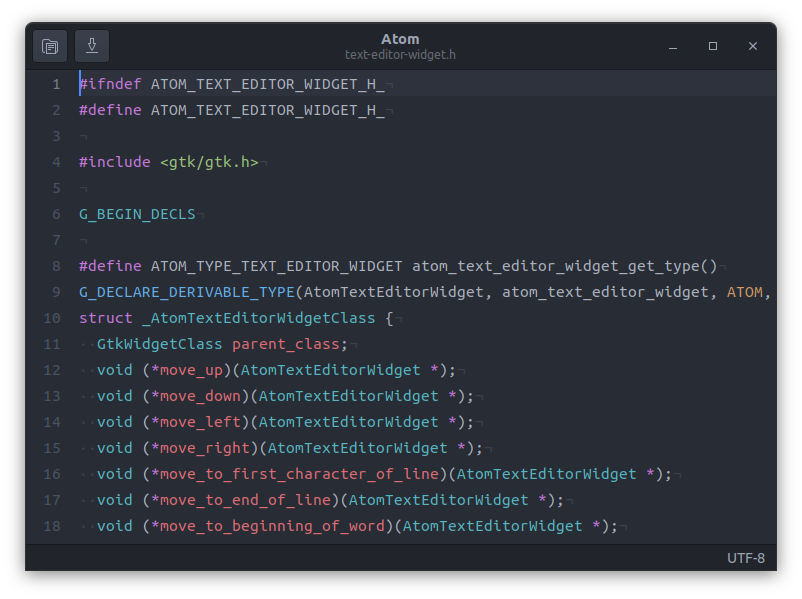
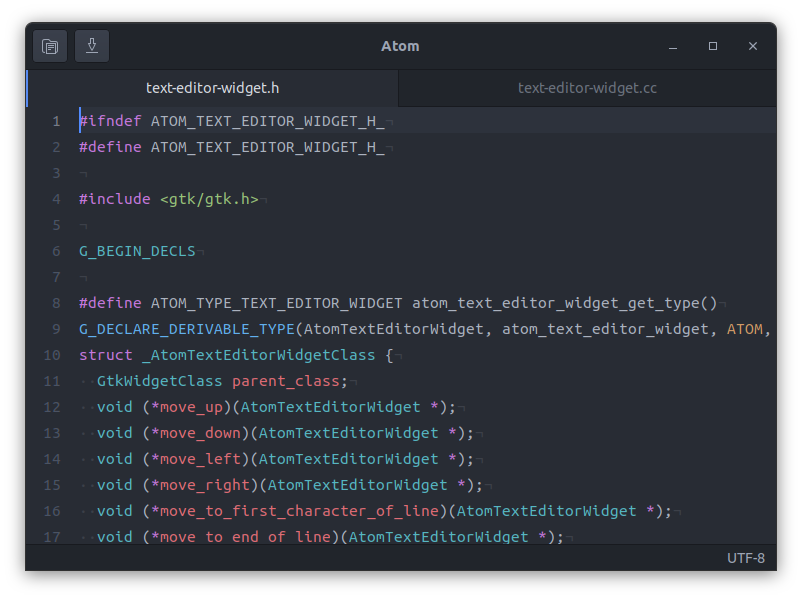
tabs

diff --git a/data/one-dark.scss b/data/one-dark.scss
@@ -367,17 +367,13 @@ window {
         background-color: $tab-background-color-active;
         border-left-color: $accent-color;
         box-shadow: inset 1px 0 $accent-color;
+        &:backdrop {
+          border-left-color: mix($text-color, $tab-background-color-editor, 33%);
+          box-shadow: inset 1px 0 mix($text-color, $tab-background-color-editor, 33%);
+        }
       }
       &:first-child:not(:checked) {
         border-left-color: transparent;
-      }
-      &:last-child {
-        &:not(:checked) {
-          box-shadow: 1px 0 $tab-border-color;
-        }
-        &:checked {
-          box-shadow: inset 1px 0 $accent-color, 1px 0 $tab-border-color;
-        }
       }
       button {
         color: transparent;
@@ -387,6 +383,9 @@ window {
         box-shadow: none;
         outline: none;
         transition-duration: 0;
+        & > * {
+          -gtk-icon-source: -gtk-icontheme('window-close-symbolic');
+        }
       }
       &:hover button {
         color: inherit;
@@ -396,6 +395,20 @@ window {
         }
         &:active {
           background-color: fade($accent-color, 50%);
+        }
+      }
+      .modified button {
+        color: $accent-color;
+        & > * {
+          -gtk-icon-source: -gtk-icontheme('media-record-symbolic');
+        }
+      }
+      &:hover .modified button {
+        & > * {
+          -gtk-icon-source: -gtk-icontheme('window-close-symbolic');
+        }
+        &:hover {
+          color: $tab-text-color-active;
         }
       }
     }

diff --git a/src/text-editor-widget.cc b/src/text-editor-widget.cc
@@ -307,6 +307,7 @@ typedef enum {
   PROP_HSCROLL_POLICY,
   PROP_VSCROLL_POLICY,
   PROP_TITLE,
+  PROP_MODIFIED,
   N_PROPERTIES
 } AtomTextEditorWidgetProperty;
 
@@ -348,7 +349,7 @@ AtomTextEditorWidget *atom_text_editor_widget_new(GFile *file) {
     g_object_notify(G_OBJECT(self), "title");
   });
   priv->text_editor->onDidChangeModified([self]() {
-    g_object_notify(G_OBJECT(self), "title");
+    g_object_notify(G_OBJECT(self), "modified");
   });
   const double padding = round(priv->char_width);
   priv->gutter_width = padding * 4 + round(count_digits(priv->text_editor->getScreenLineCount()) * priv->char_width);
@@ -538,6 +539,7 @@ static void atom_text_editor_widget_class_init(AtomTextEditorWidgetClass *klass)
   g_object_class_override_property(G_OBJECT_CLASS(klass), PROP_HSCROLL_POLICY, "hscroll-policy");
   g_object_class_override_property(G_OBJECT_CLASS(klass), PROP_VSCROLL_POLICY, "vscroll-policy");
   g_object_class_install_property(G_OBJECT_CLASS(klass), PROP_TITLE, g_param_spec_string("title", NULL, NULL, NULL, (GParamFlags)(G_PARAM_READABLE | G_PARAM_STATIC_STRINGS)));
+  g_object_class_install_property(G_OBJECT_CLASS(klass), PROP_MODIFIED, g_param_spec_boolean("modified", NULL, NULL, FALSE, (GParamFlags)(G_PARAM_READABLE | G_PARAM_STATIC_STRINGS)));
   gtk_widget_class_set_css_name(GTK_WIDGET_CLASS(klass), "atom-text-editor");
 }
 
@@ -643,6 +645,9 @@ static void atom_text_editor_widget_get_property(GObject *object, guint property
   case PROP_TITLE:
     g_value_take_string(value, atom_text_editor_widget_get_title(self));
     break;
+  case PROP_MODIFIED:
+    g_value_set_boolean(value, atom_text_editor_widget_get_modified(self));
+    break;
   default:
     break;
   }
@@ -714,11 +719,12 @@ static gboolean atom_text_editor_widget_focus_out_event(GtkWidget *widget, GdkEv
 
 gchar *atom_text_editor_widget_get_title(AtomTextEditorWidget *self) {
   AtomTextEditorWidgetPrivate *priv = GET_PRIVATE(self);
-  std::string title = priv->text_editor->getTitle();
-  if (priv->text_editor->isModified()) {
-    title += u8" \u25CF";
-  }
-  return g_strdup(title.c_str());
+  return g_strdup(priv->text_editor->getTitle().c_str());
+}
+
+gboolean atom_text_editor_widget_get_modified(AtomTextEditorWidget *self) {
+  AtomTextEditorWidgetPrivate *priv = GET_PRIVATE(self);
+  return priv->text_editor->isModified();
 }
 
 gboolean atom_text_editor_widget_save(AtomTextEditorWidget *self) {

diff --git a/src/text-editor-widget.h b/src/text-editor-widget.h
@@ -64,6 +64,7 @@ struct _AtomTextEditorWidgetClass {
 
 AtomTextEditorWidget *atom_text_editor_widget_new(GFile *);
 gchar *atom_text_editor_widget_get_title(AtomTextEditorWidget *);
+gboolean atom_text_editor_widget_get_modified(AtomTextEditorWidget *);
 gboolean atom_text_editor_widget_save(AtomTextEditorWidget *);
 void atom_text_editor_widget_save_as(AtomTextEditorWidget *, GFile *);
 
